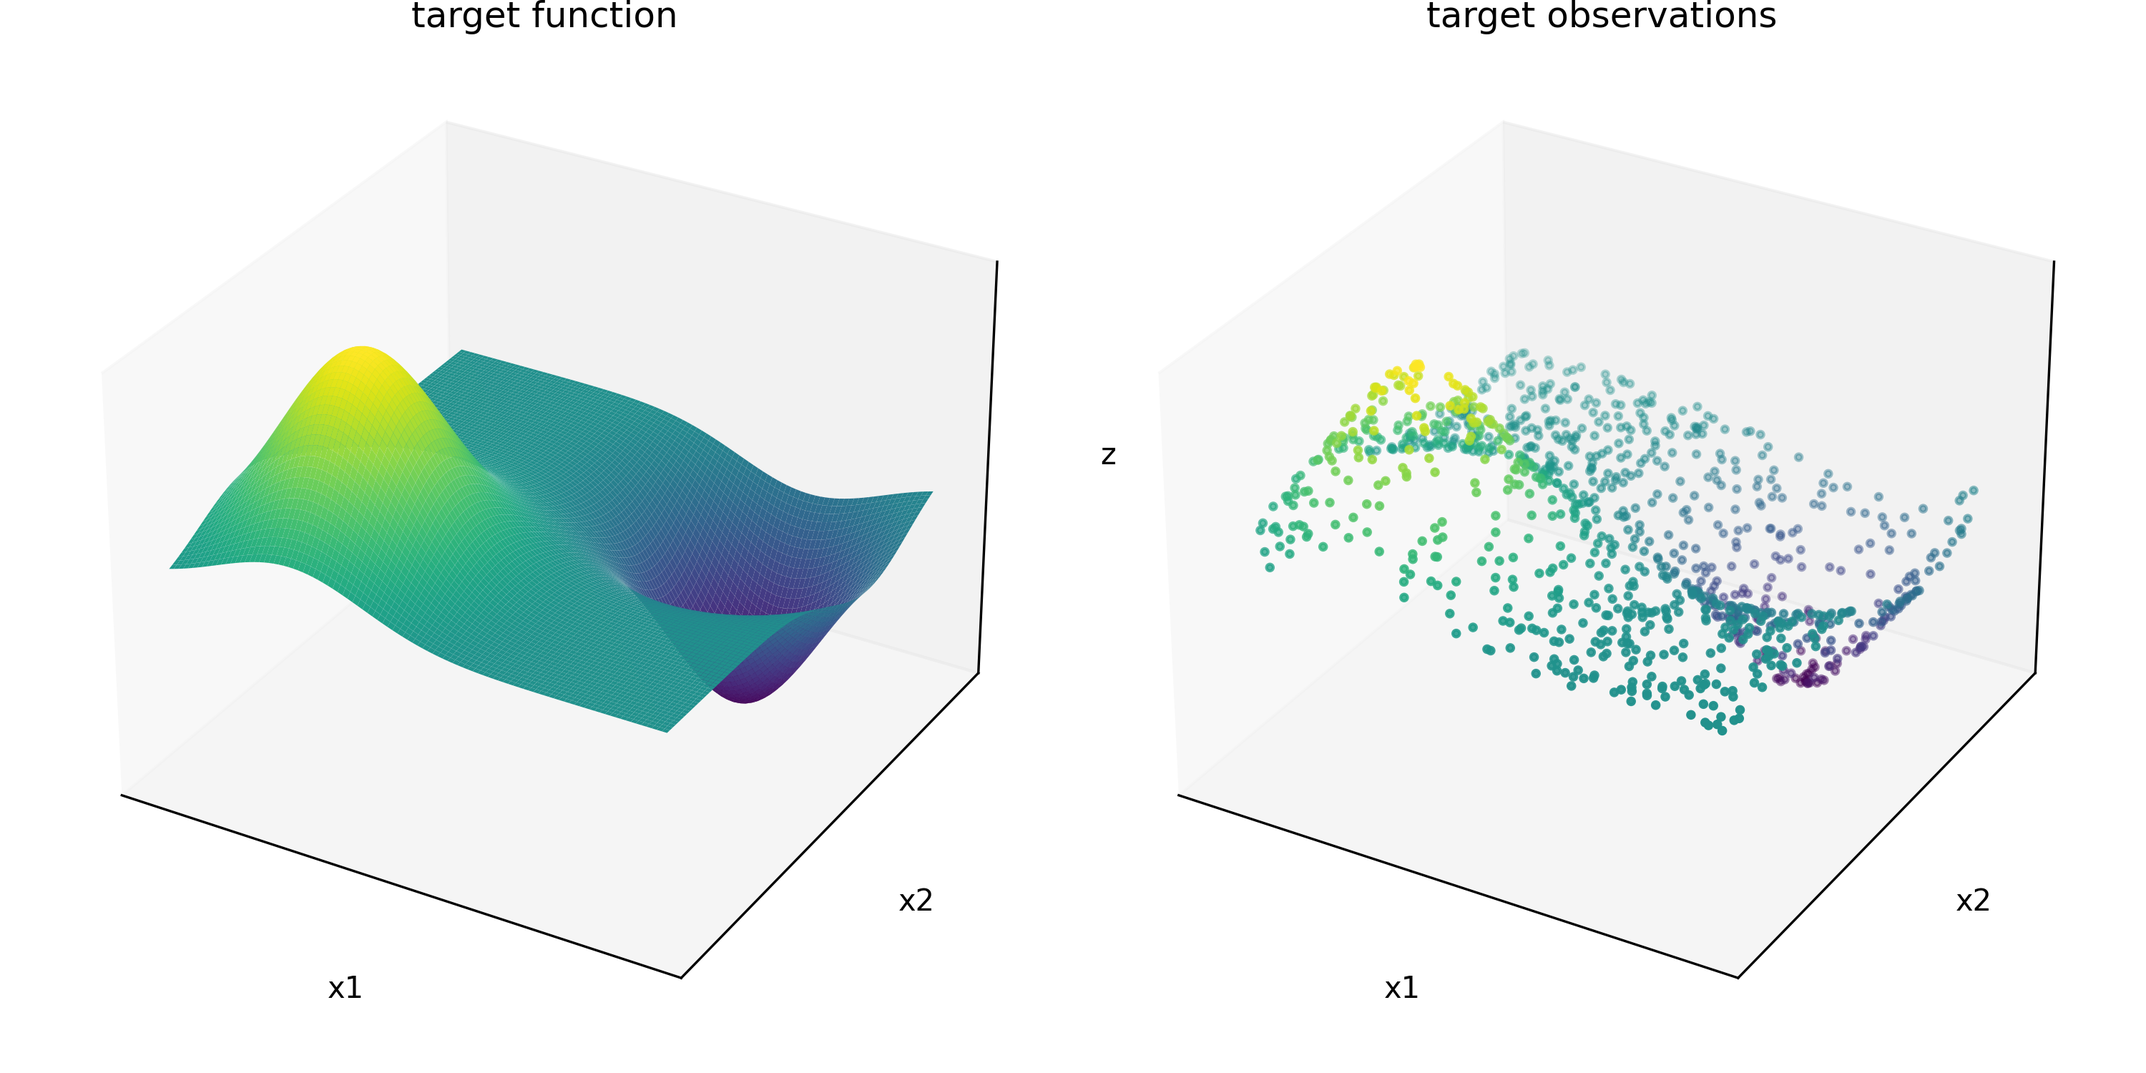
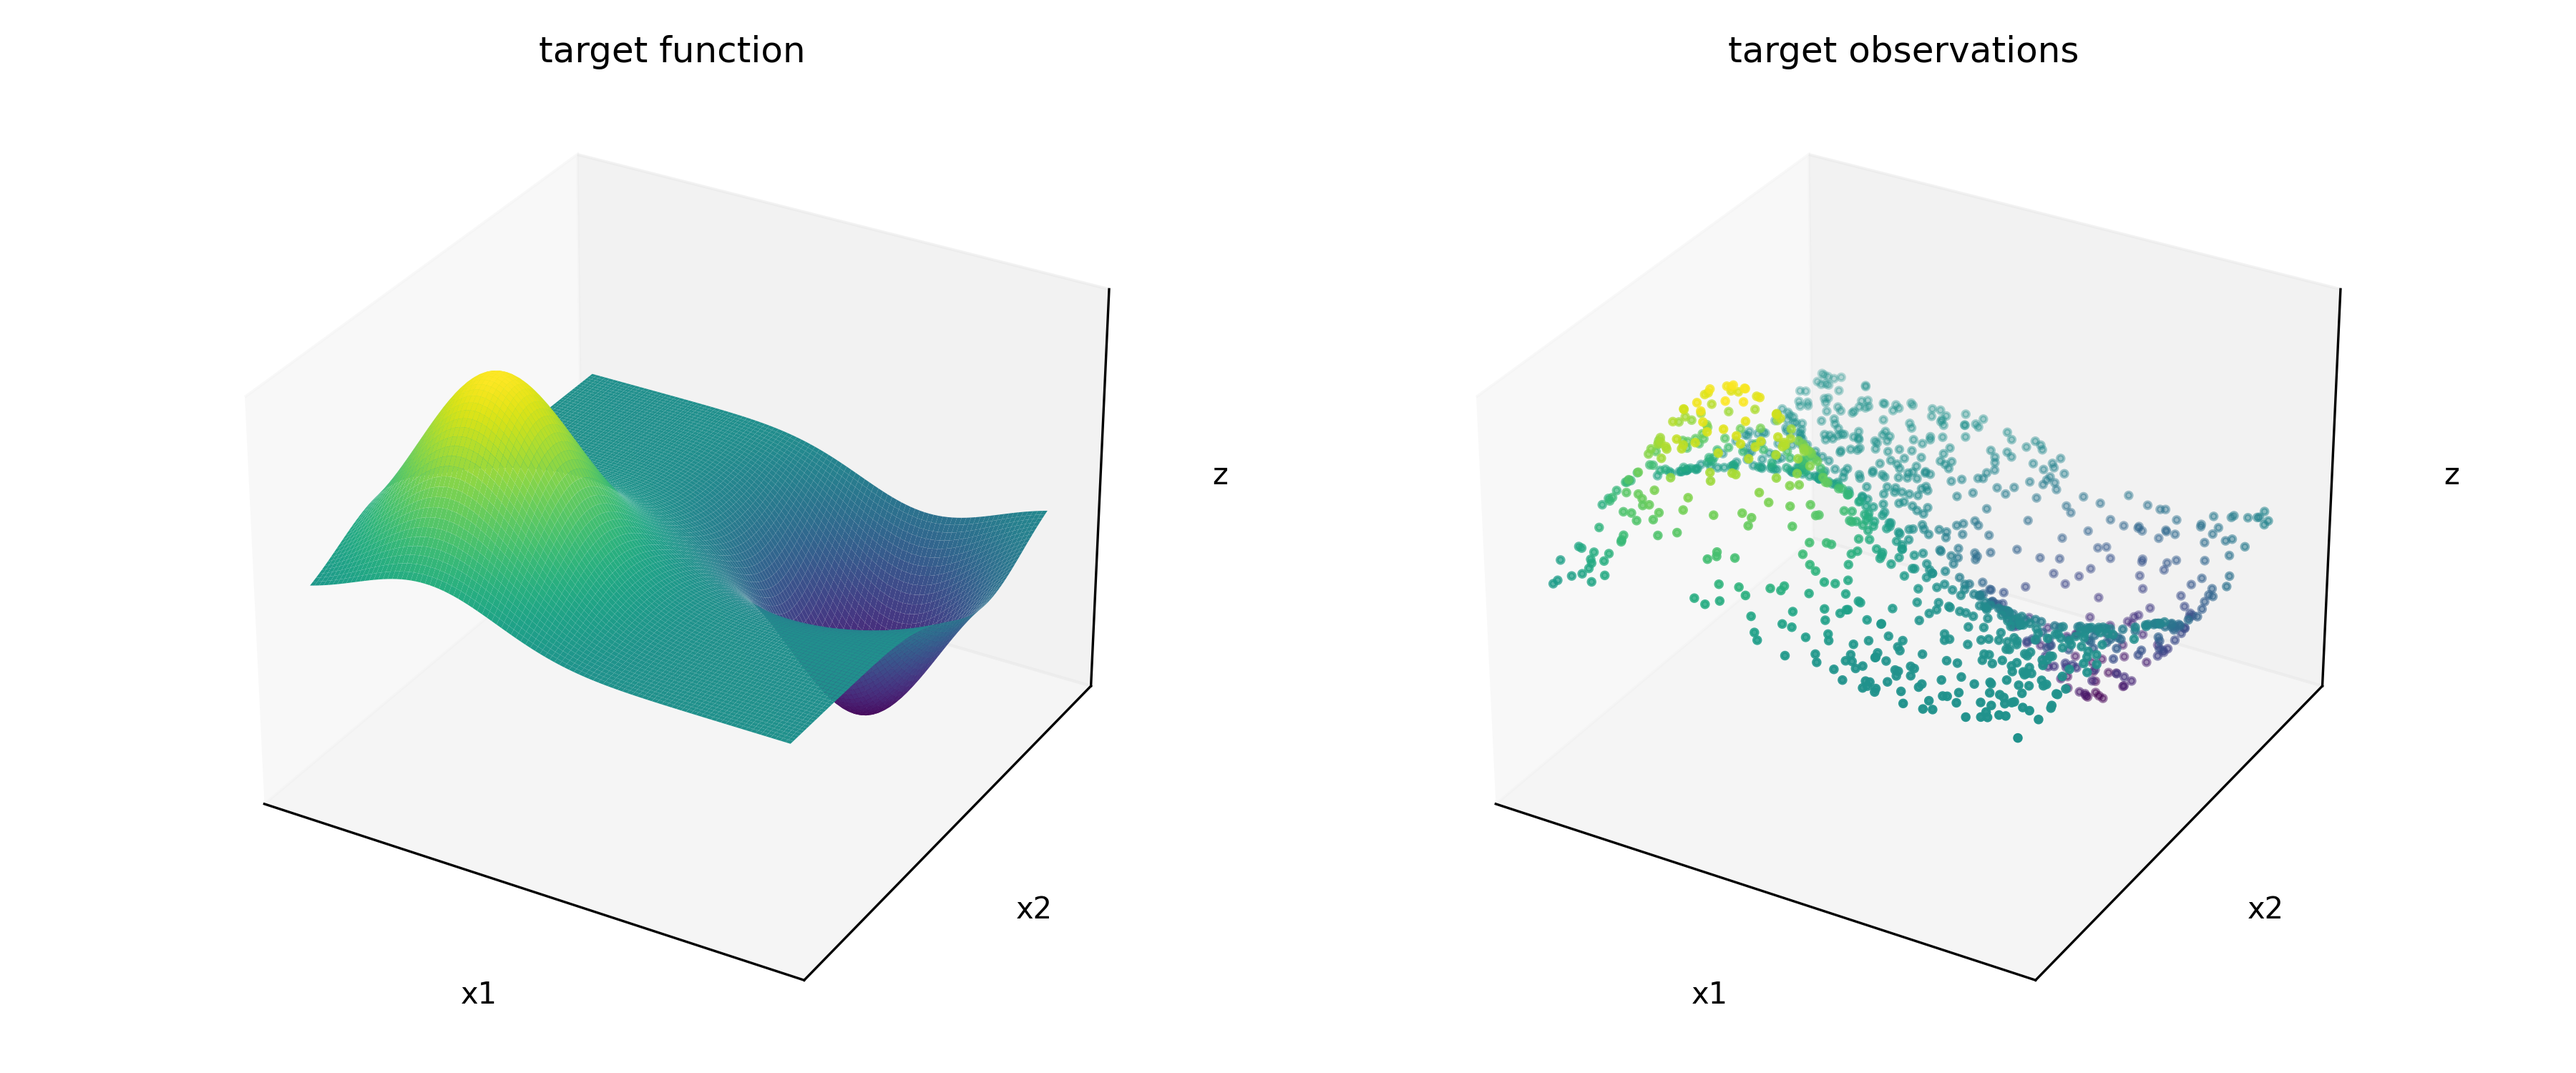
added target function

diff --git a/introduction_to_machine_learning/images/target_function/target_function.py b/introduction_to_machine_learning/images/target_function/target_function.py
@@ -13,7 +13,7 @@ def target(X) -> np.ndarray:
     return np.exp(-0.5*(np.sum(((X - mu0)/s0)**2, axis=-1))) - np.exp(-0.5*(np.sum(((X - mu1)/s1)**2, axis=-1)))
 
 
-f = plt.figure(figsize=[10, 5])
+f = plt.figure(figsize=[12, 5])
 # surface
 X = np.stack(np.meshgrid(np.linspace(-1, 1, 101), np.linspace(-1, 1, 101)), axis=-1)
 Z = target(X)

diff --git a/introduction_to_machine_learning/introduction_to_machine_learning.md b/introduction_to_machine_learning/introduction_to_machine_learning.md
@@ -70,4 +70,6 @@ This algorithm is less often used than gradient descent because it usually requi
 
 ## An history of commonly used machine learning models
 
-In this section we will describe the most commonly used machine learning models for application to tabular data.
+In this section we will describe the most commonly used machine learning models for application to tabular data. We will fit each model on 1000 random observations from the function y = exp(((x1-0.5)/0.3)^2 + ((x2-0.5)/0.3)^2) - exp(((x1+0.5)/0.3)^2 + ((x2+0.5)/0.3)
+
+![target function and observations](images/target_function/target_function.png)
